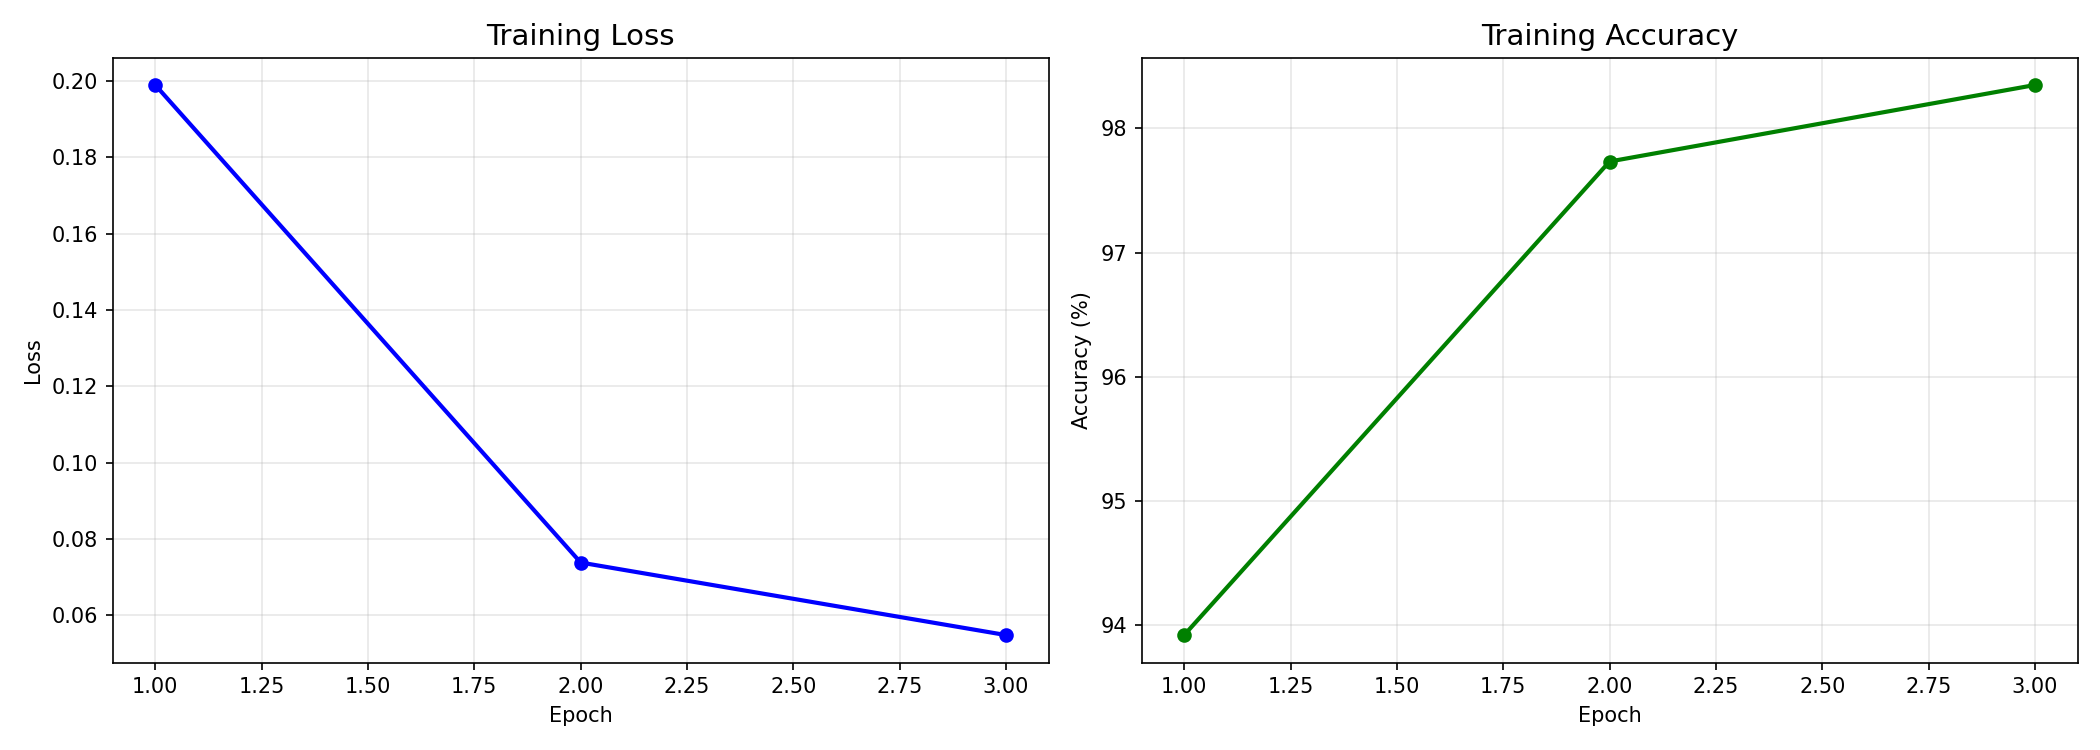
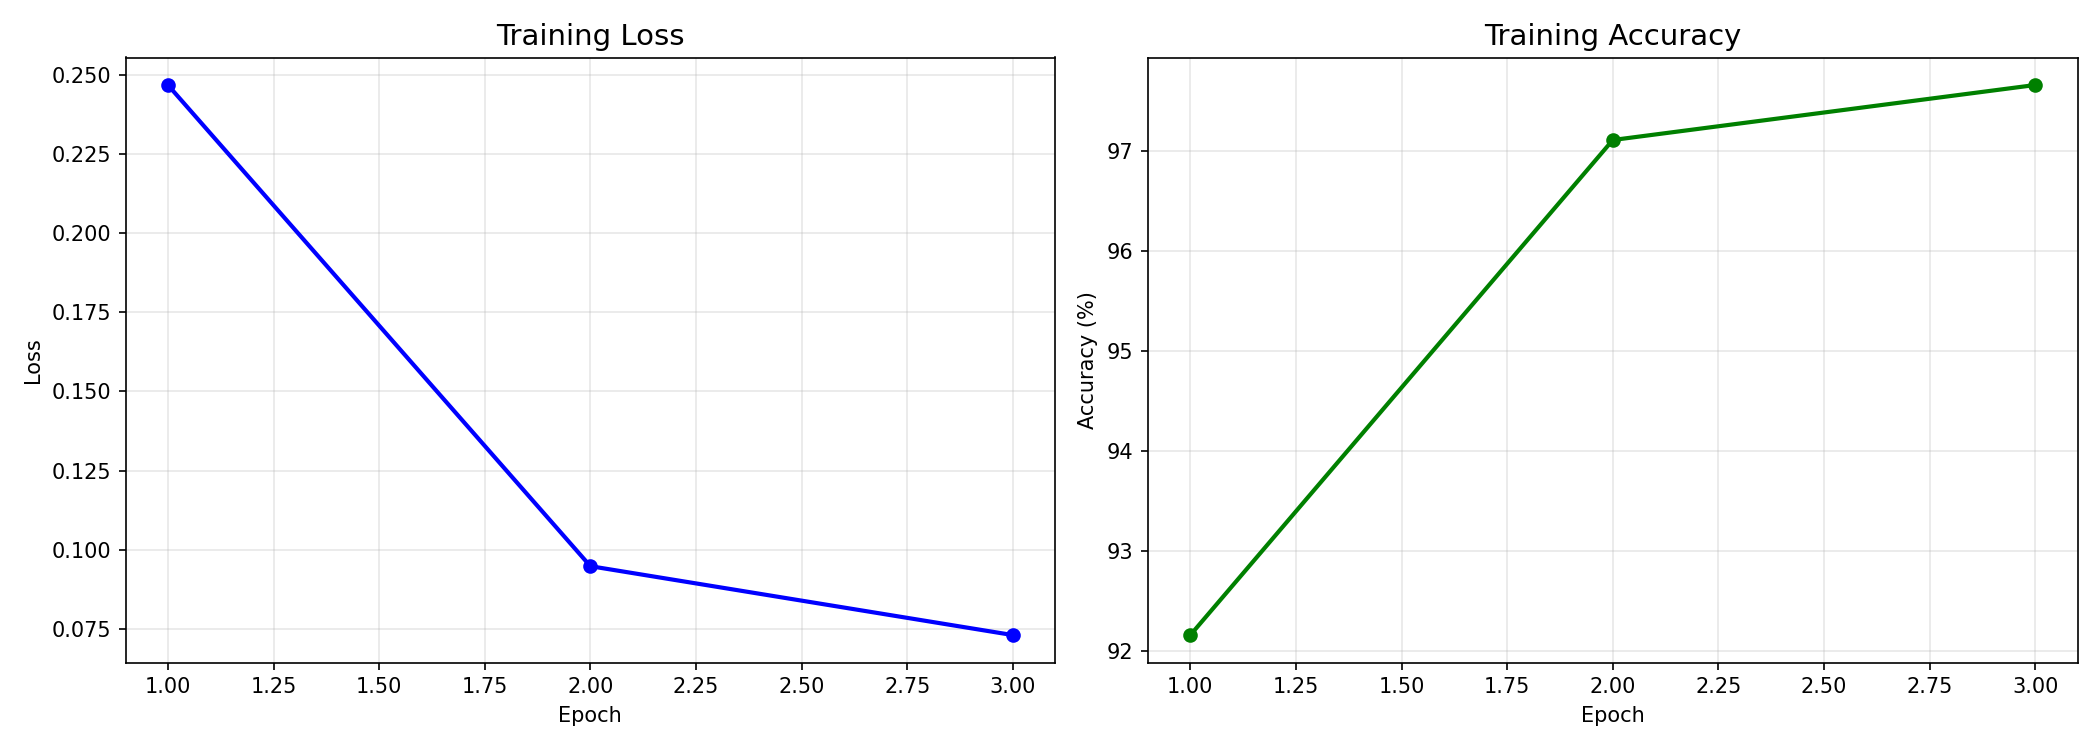
Training updated

diff --git a/evaluate.py b/evaluate.py
@@ -18,7 +18,7 @@ from PIL import Image
 # Config
 # ==========================
 DATA_DIR = "data/test/"
-MODEL_PATH = "setB.pth"
+MODEL_PATH = "trained_model.pth"
 BATCH_SIZE = 32
 NUM_CLASSES = 10
 DEVICE = torch.device("cuda" if torch.cuda.is_available() else "cpu")
